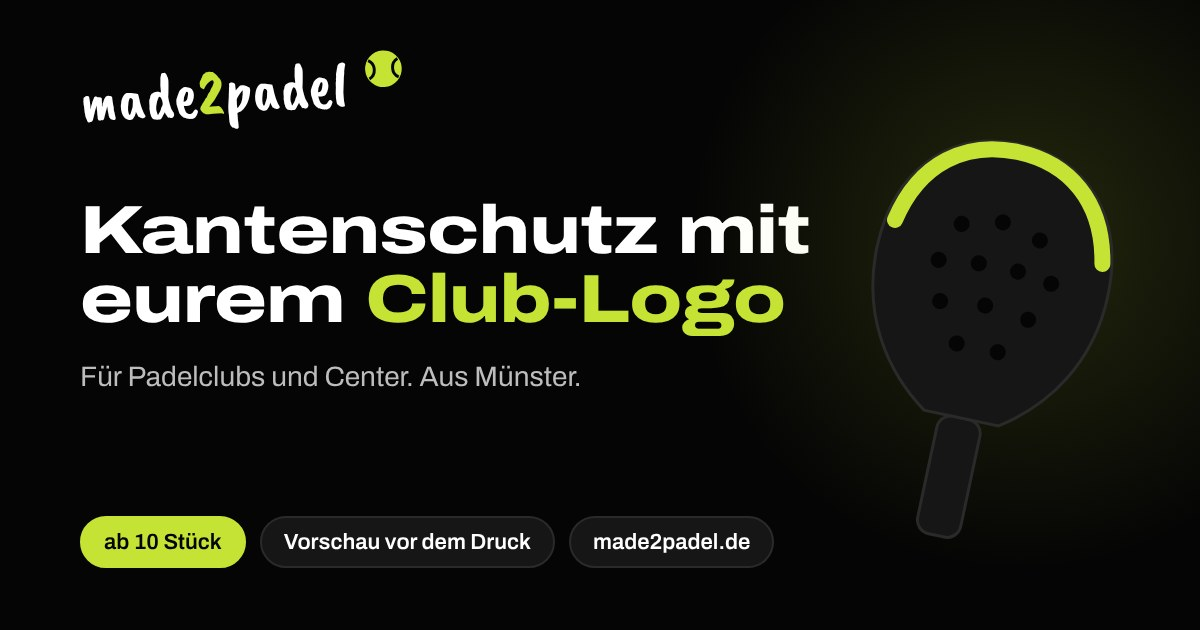
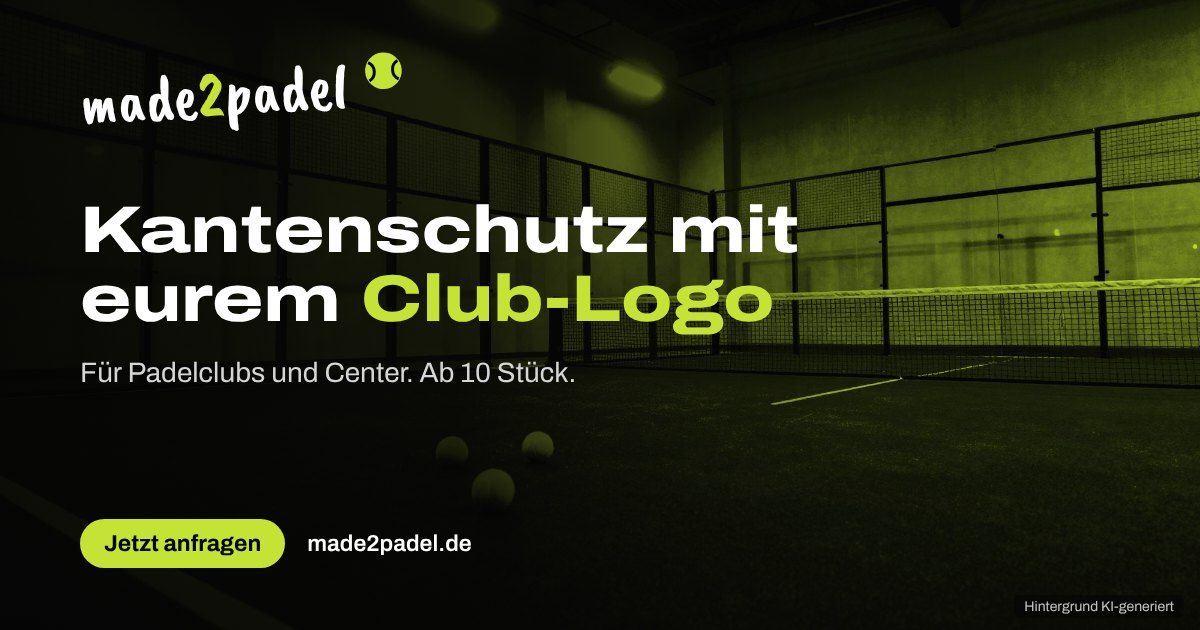
Linkvorschau: Court-Bild als Hintergrund (KI-gekennzeichnet)
Claude-Session: https://claude.ai/code/session_01X6UyMuinR4JnQA5fXrghYi

diff --git a/index.html b/index.html
@@ -18,7 +18,7 @@
 <meta property="og:title" content="Made2Padel – Personalisierte Schlägerprotektoren">
 <meta property="og:description" content="Personalisierte Schlägerprotektoren mit eurem Club-Logo für Padelclubs. Robust, langlebig, ab 10 Stück. Aus Münster.">
 <meta property="og:url" content="https://made2padel.de/">
-<meta property="og:image" content="https://made2padel.de/img/og-made2padel.jpg?v=1">
+<meta property="og:image" content="https://made2padel.de/img/og-made2padel.jpg?v=2">
 <meta property="og:image:width" content="1200">
 <meta property="og:image:height" content="630">
 <meta property="og:image:alt" content="made2padel – Kantenschutz mit eurem Club-Logo">

diff --git a/logo-anleitung.html b/logo-anleitung.html
@@ -17,7 +17,7 @@
 <meta property="og:title" content="Logo-Anleitung – Made2Padel">
 <meta property="og:description" content="So schickt ihr uns euer Logo: Dateiformate, Mindeststrichstärke und Größe für den Druck auf dem Kantenschutz.">
 <meta property="og:url" content="https://made2padel.de/logo-anleitung">
-<meta property="og:image" content="https://made2padel.de/img/og-made2padel.jpg?v=1">
+<meta property="og:image" content="https://made2padel.de/img/og-made2padel.jpg?v=2">
 <meta property="og:image:width" content="1200">
 <meta property="og:image:height" content="630">
 <meta property="og:image:alt" content="made2padel – Kantenschutz mit eurem Club-Logo">

diff --git a/faq.html b/faq.html
@@ -17,7 +17,7 @@
 <meta property="og:title" content="Häufige Fragen – Made2Padel">
 <meta property="og:description" content="Häufige Fragen zu Kantenschutz mit Club-Logo: Material, Mindestmenge, Vorschau, Lieferzeit, Versand und Bezahlung.">
 <meta property="og:url" content="https://made2padel.de/faq">
-<meta property="og:image" content="https://made2padel.de/img/og-made2padel.jpg?v=1">
+<meta property="og:image" content="https://made2padel.de/img/og-made2padel.jpg?v=2">
 <meta property="og:image:width" content="1200">
 <meta property="og:image:height" content="630">
 <meta property="og:image:alt" content="made2padel – Kantenschutz mit eurem Club-Logo">

diff --git a/shop.html b/shop.html
@@ -17,7 +17,7 @@
 <meta property="og:title" content="Shop – Made2Padel">
 <meta property="og:description" content="Kantenschutz mit eurem Club-Logo konfigurieren und unverbindlich anfragen. Ihr bekommt ein persönliches Angebot per E-Mail.">
 <meta property="og:url" content="https://made2padel.de/shop">
-<meta property="og:image" content="https://made2padel.de/img/og-made2padel.jpg?v=1">
+<meta property="og:image" content="https://made2padel.de/img/og-made2padel.jpg?v=2">
 <meta property="og:image:width" content="1200">
 <meta property="og:image:height" content="630">
 <meta property="og:image:alt" content="made2padel – Kantenschutz mit eurem Club-Logo">

diff --git a/ueber-uns.html b/ueber-uns.html
@@ -17,7 +17,7 @@
 <meta property="og:title" content="Über uns – Made2Padel">
 <meta property="og:description" content="Wer hinter Made2Padel steckt: Berkay und Ryan aus Münster bringen das Logo eures Padelclubs auf Kantenschutz.">
 <meta property="og:url" content="https://made2padel.de/ueber-uns">
-<meta property="og:image" content="https://made2padel.de/img/og-made2padel.jpg?v=1">
+<meta property="og:image" content="https://made2padel.de/img/og-made2padel.jpg?v=2">
 <meta property="og:image:width" content="1200">
 <meta property="og:image:height" content="630">
 <meta property="og:image:alt" content="made2padel – Kantenschutz mit eurem Club-Logo">

diff --git a/datenschutz.html b/datenschutz.html
@@ -17,7 +17,7 @@
 <meta property="og:title" content="Datenschutzerklärung – Made2Padel">
 <meta property="og:description" content="Datenschutzerklärung der Made2Padel GbR.">
 <meta property="og:url" content="https://made2padel.de/datenschutz">
-<meta property="og:image" content="https://made2padel.de/img/og-made2padel.jpg?v=1">
+<meta property="og:image" content="https://made2padel.de/img/og-made2padel.jpg?v=2">
 <meta property="og:image:width" content="1200">
 <meta property="og:image:height" content="630">
 <meta property="og:image:alt" content="made2padel – Kantenschutz mit eurem Club-Logo">

diff --git a/impressum.html b/impressum.html
@@ -17,7 +17,7 @@
 <meta property="og:title" content="Impressum – Made2Padel">
 <meta property="og:description" content="Impressum der Made2Padel GbR, Münster.">
 <meta property="og:url" content="https://made2padel.de/impressum">
-<meta property="og:image" content="https://made2padel.de/img/og-made2padel.jpg?v=1">
+<meta property="og:image" content="https://made2padel.de/img/og-made2padel.jpg?v=2">
 <meta property="og:image:width" content="1200">
 <meta property="og:image:height" content="630">
 <meta property="og:image:alt" content="made2padel – Kantenschutz mit eurem Club-Logo">

diff --git a/CLAUDE.md b/CLAUDE.md
@@ -15,4 +15,4 @@
 - Footer ist auf allen Seiten gleich (footer.site-footer: Direktlinks, Über uns, Kontaktkarte mit Telefon +49 170 2021507, E-Mail, Instagram; ohne Adresse). Änderungen immer auf allen Seiten übernehmen. Keine Social-Media-Einbettungen oder Tracking-Skripte.
 - site.js (lokal) enthält den "Nach oben"-Button und wird auf jeder Seite nach search.js geladen.
 - Bilder liegen in /img (WebP + JPG-Fallback). KI-generierte Bilder immer sichtbar mit "KI-generiert" kennzeichnen (Klasse ai-tag). Fotos in Markenfarben einfärben (Duoton Schwarz → Lime), damit sie zum Design passen.
-- Linkvorschau (Open Graph): Jede Seite hat og:title, og:description, og:url (= canonical) und og:image https://made2padel.de/img/og-made2padel.jpg?v=1 (1200×630) plus twitter:card. Neue Seiten bekommen denselben Block; bei neuem Vorschaubild die Zahl erhöhen.
+- Linkvorschau (Open Graph): Jede Seite hat og:title, og:description, og:url (= canonical) und og:image https://made2padel.de/img/og-made2padel.jpg?v=2 (1200×630) plus twitter:card. Neue Seiten bekommen denselben Block; bei neuem Vorschaubild die Zahl erhöhen.
